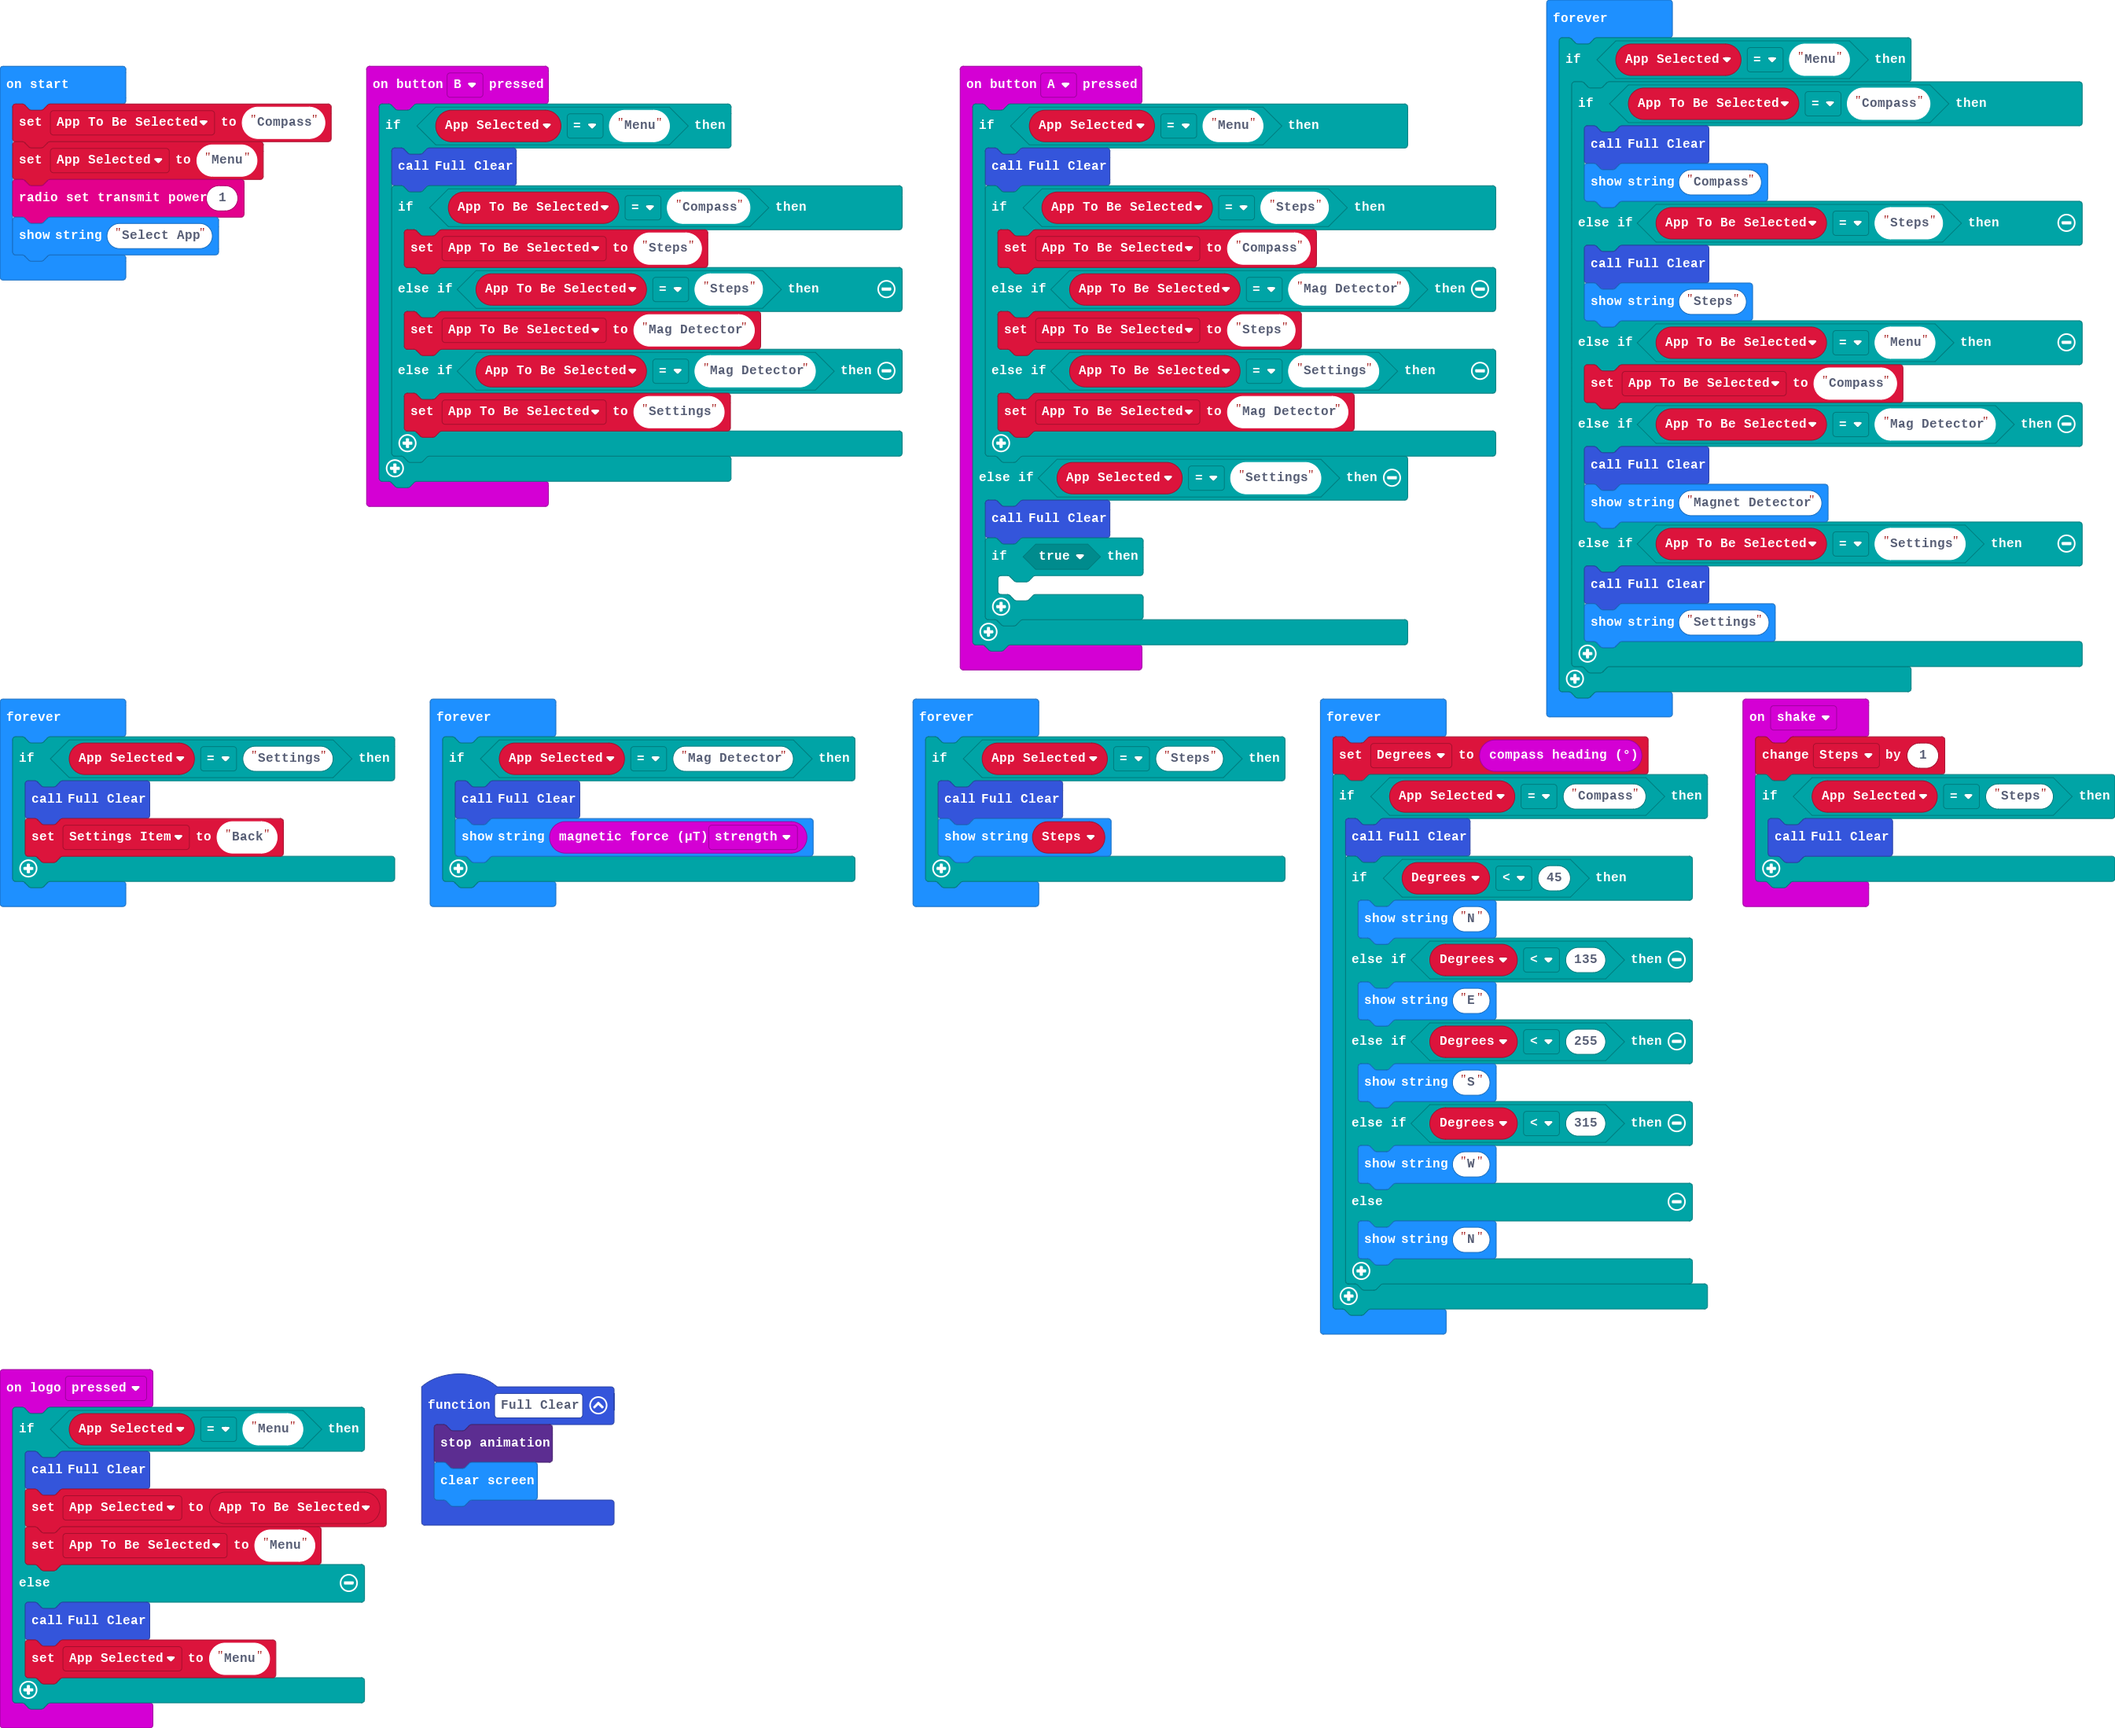
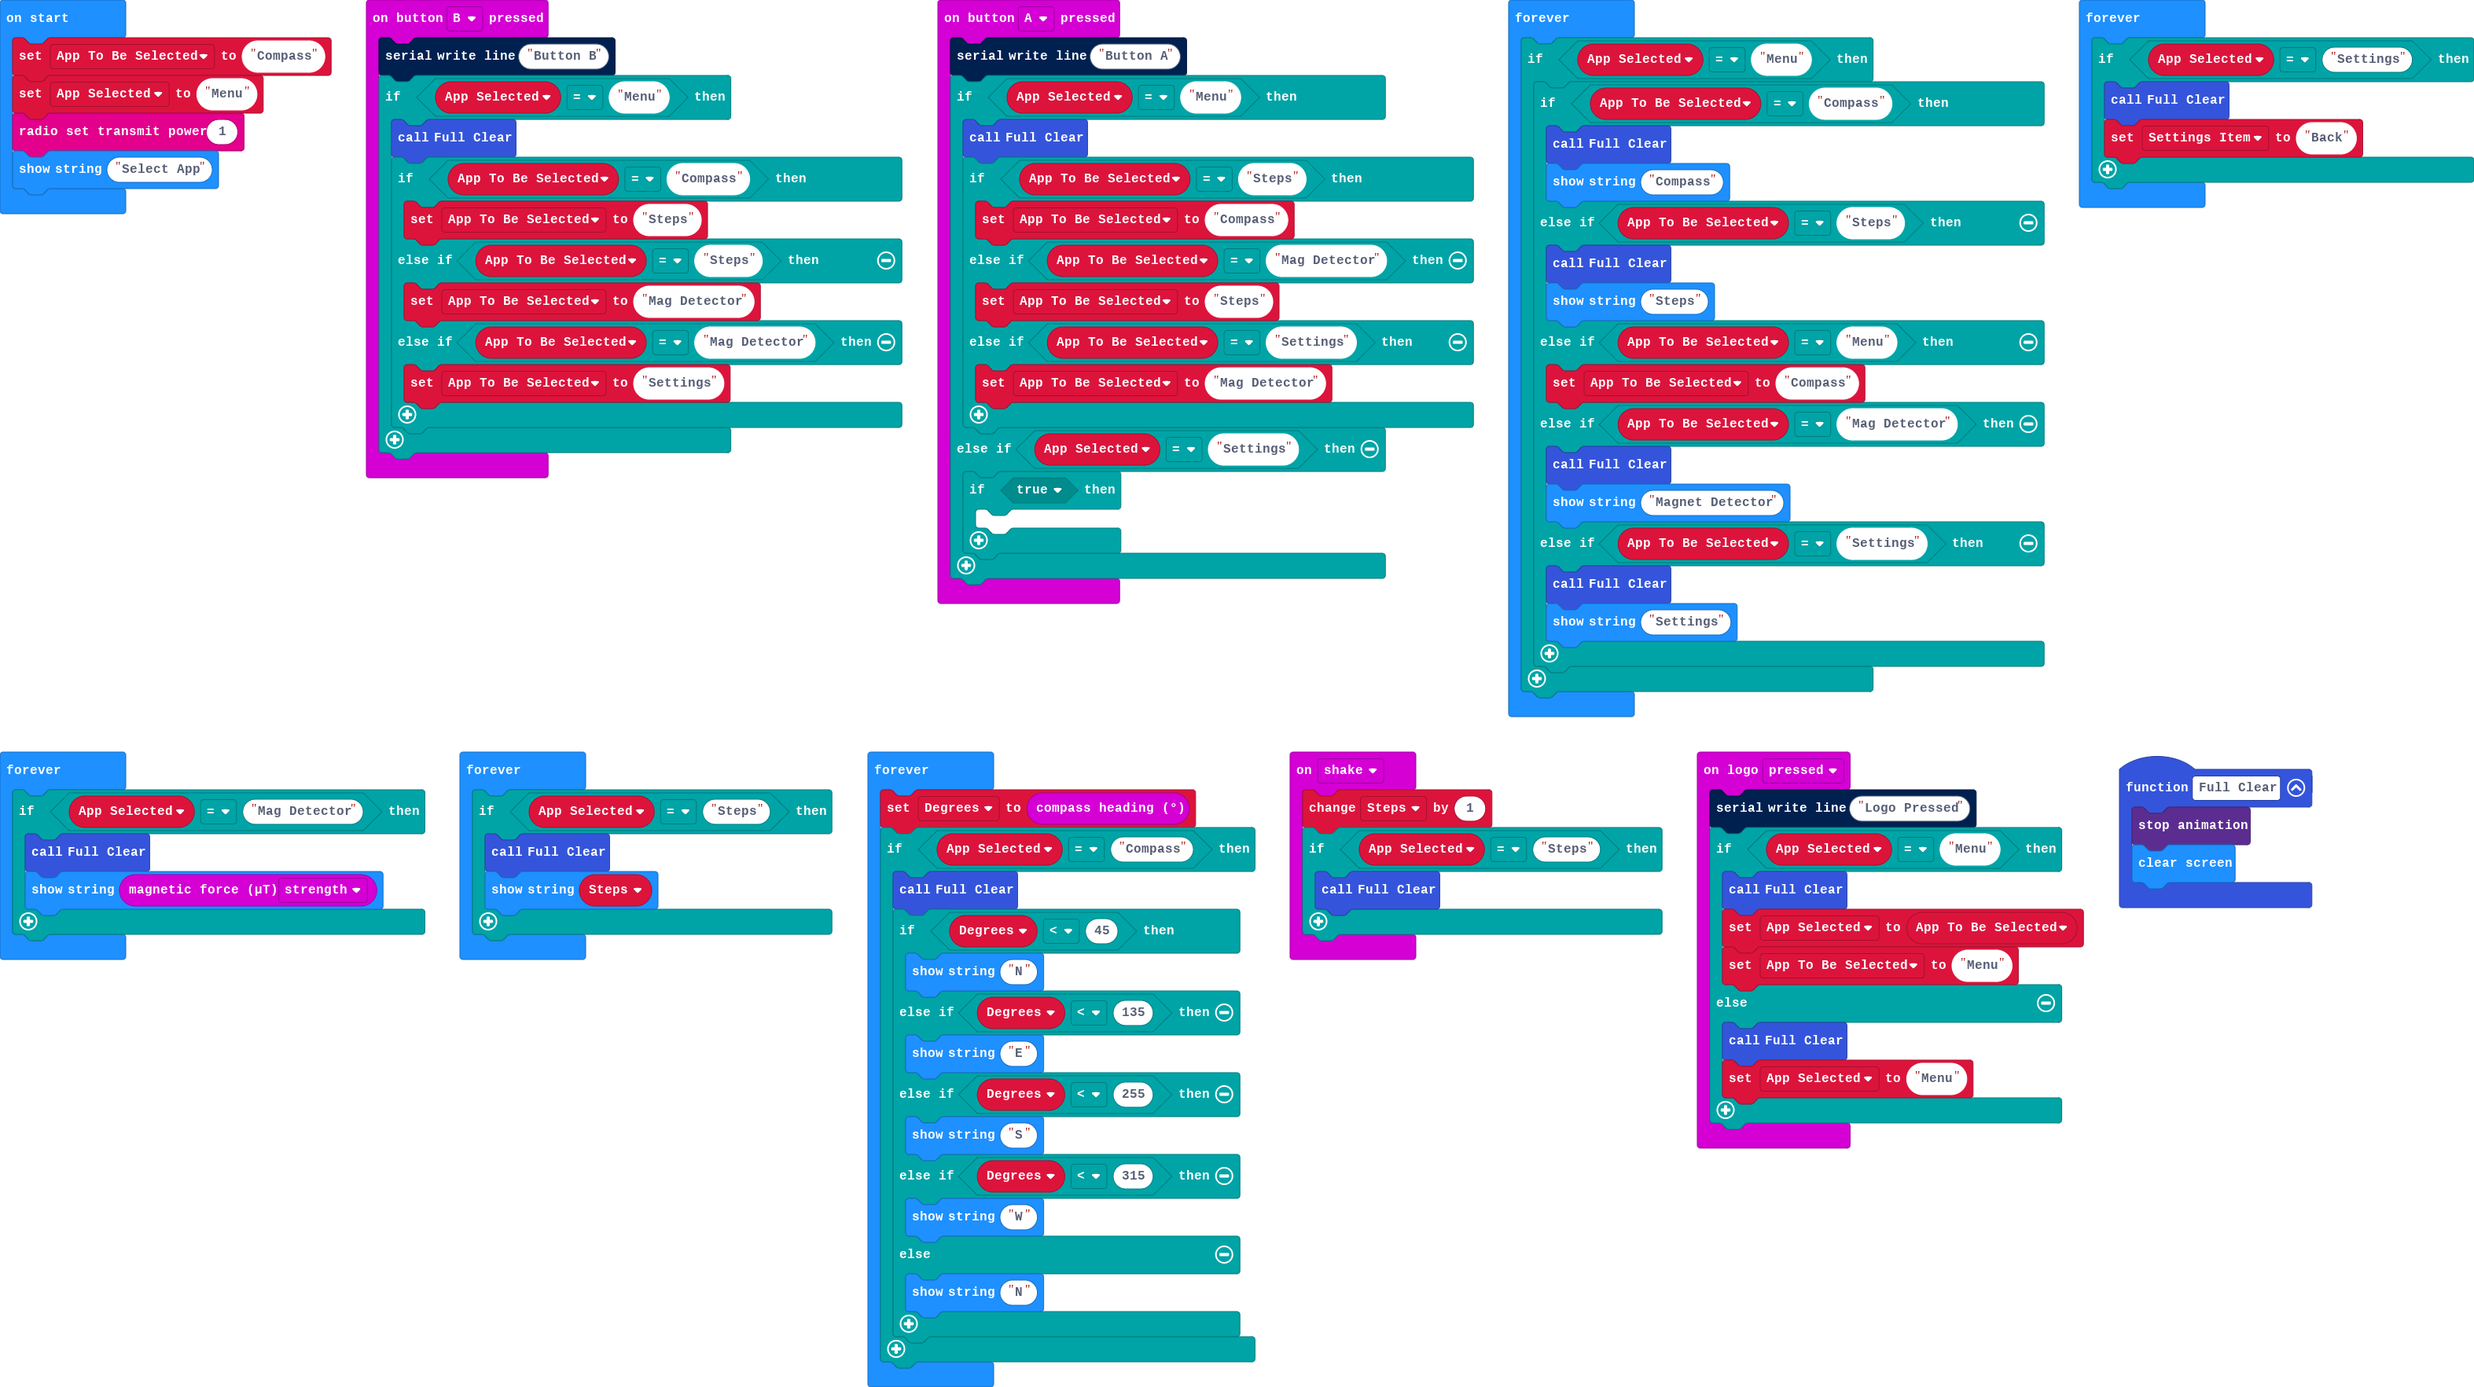
Serial debugging added.

diff --git a/main.ts b/main.ts
@@ -1,4 +1,5 @@
 input.onButtonPressed(Button.A, function () {
+    serial.writeLine("Button A")
     if (App_Selected == "Menu") {
         Full_Clear()
         if (App_To_Be_Selected == "Steps") {
@@ -9,7 +10,6 @@ input.onButtonPressed(Button.A, function () {
             App_To_Be_Selected = "Mag Detector"
         }
     } else if (App_Selected == "Settings") {
-        Full_Clear()
         if (true) {
         	
         }
@@ -20,6 +20,7 @@ function Full_Clear () {
     basic.clearScreen()
 }
 input.onButtonPressed(Button.B, function () {
+    serial.writeLine("Button B")
     if (App_Selected == "Menu") {
         Full_Clear()
         if (App_To_Be_Selected == "Compass") {
@@ -38,6 +39,7 @@ input.onGesture(Gesture.Shake, function () {
     }
 })
 input.onLogoEvent(TouchButtonEvent.Pressed, function () {
+    serial.writeLine("Logo Pressed")
     if (App_Selected == "Menu") {
         Full_Clear()
         App_Selected = App_To_Be_Selected
